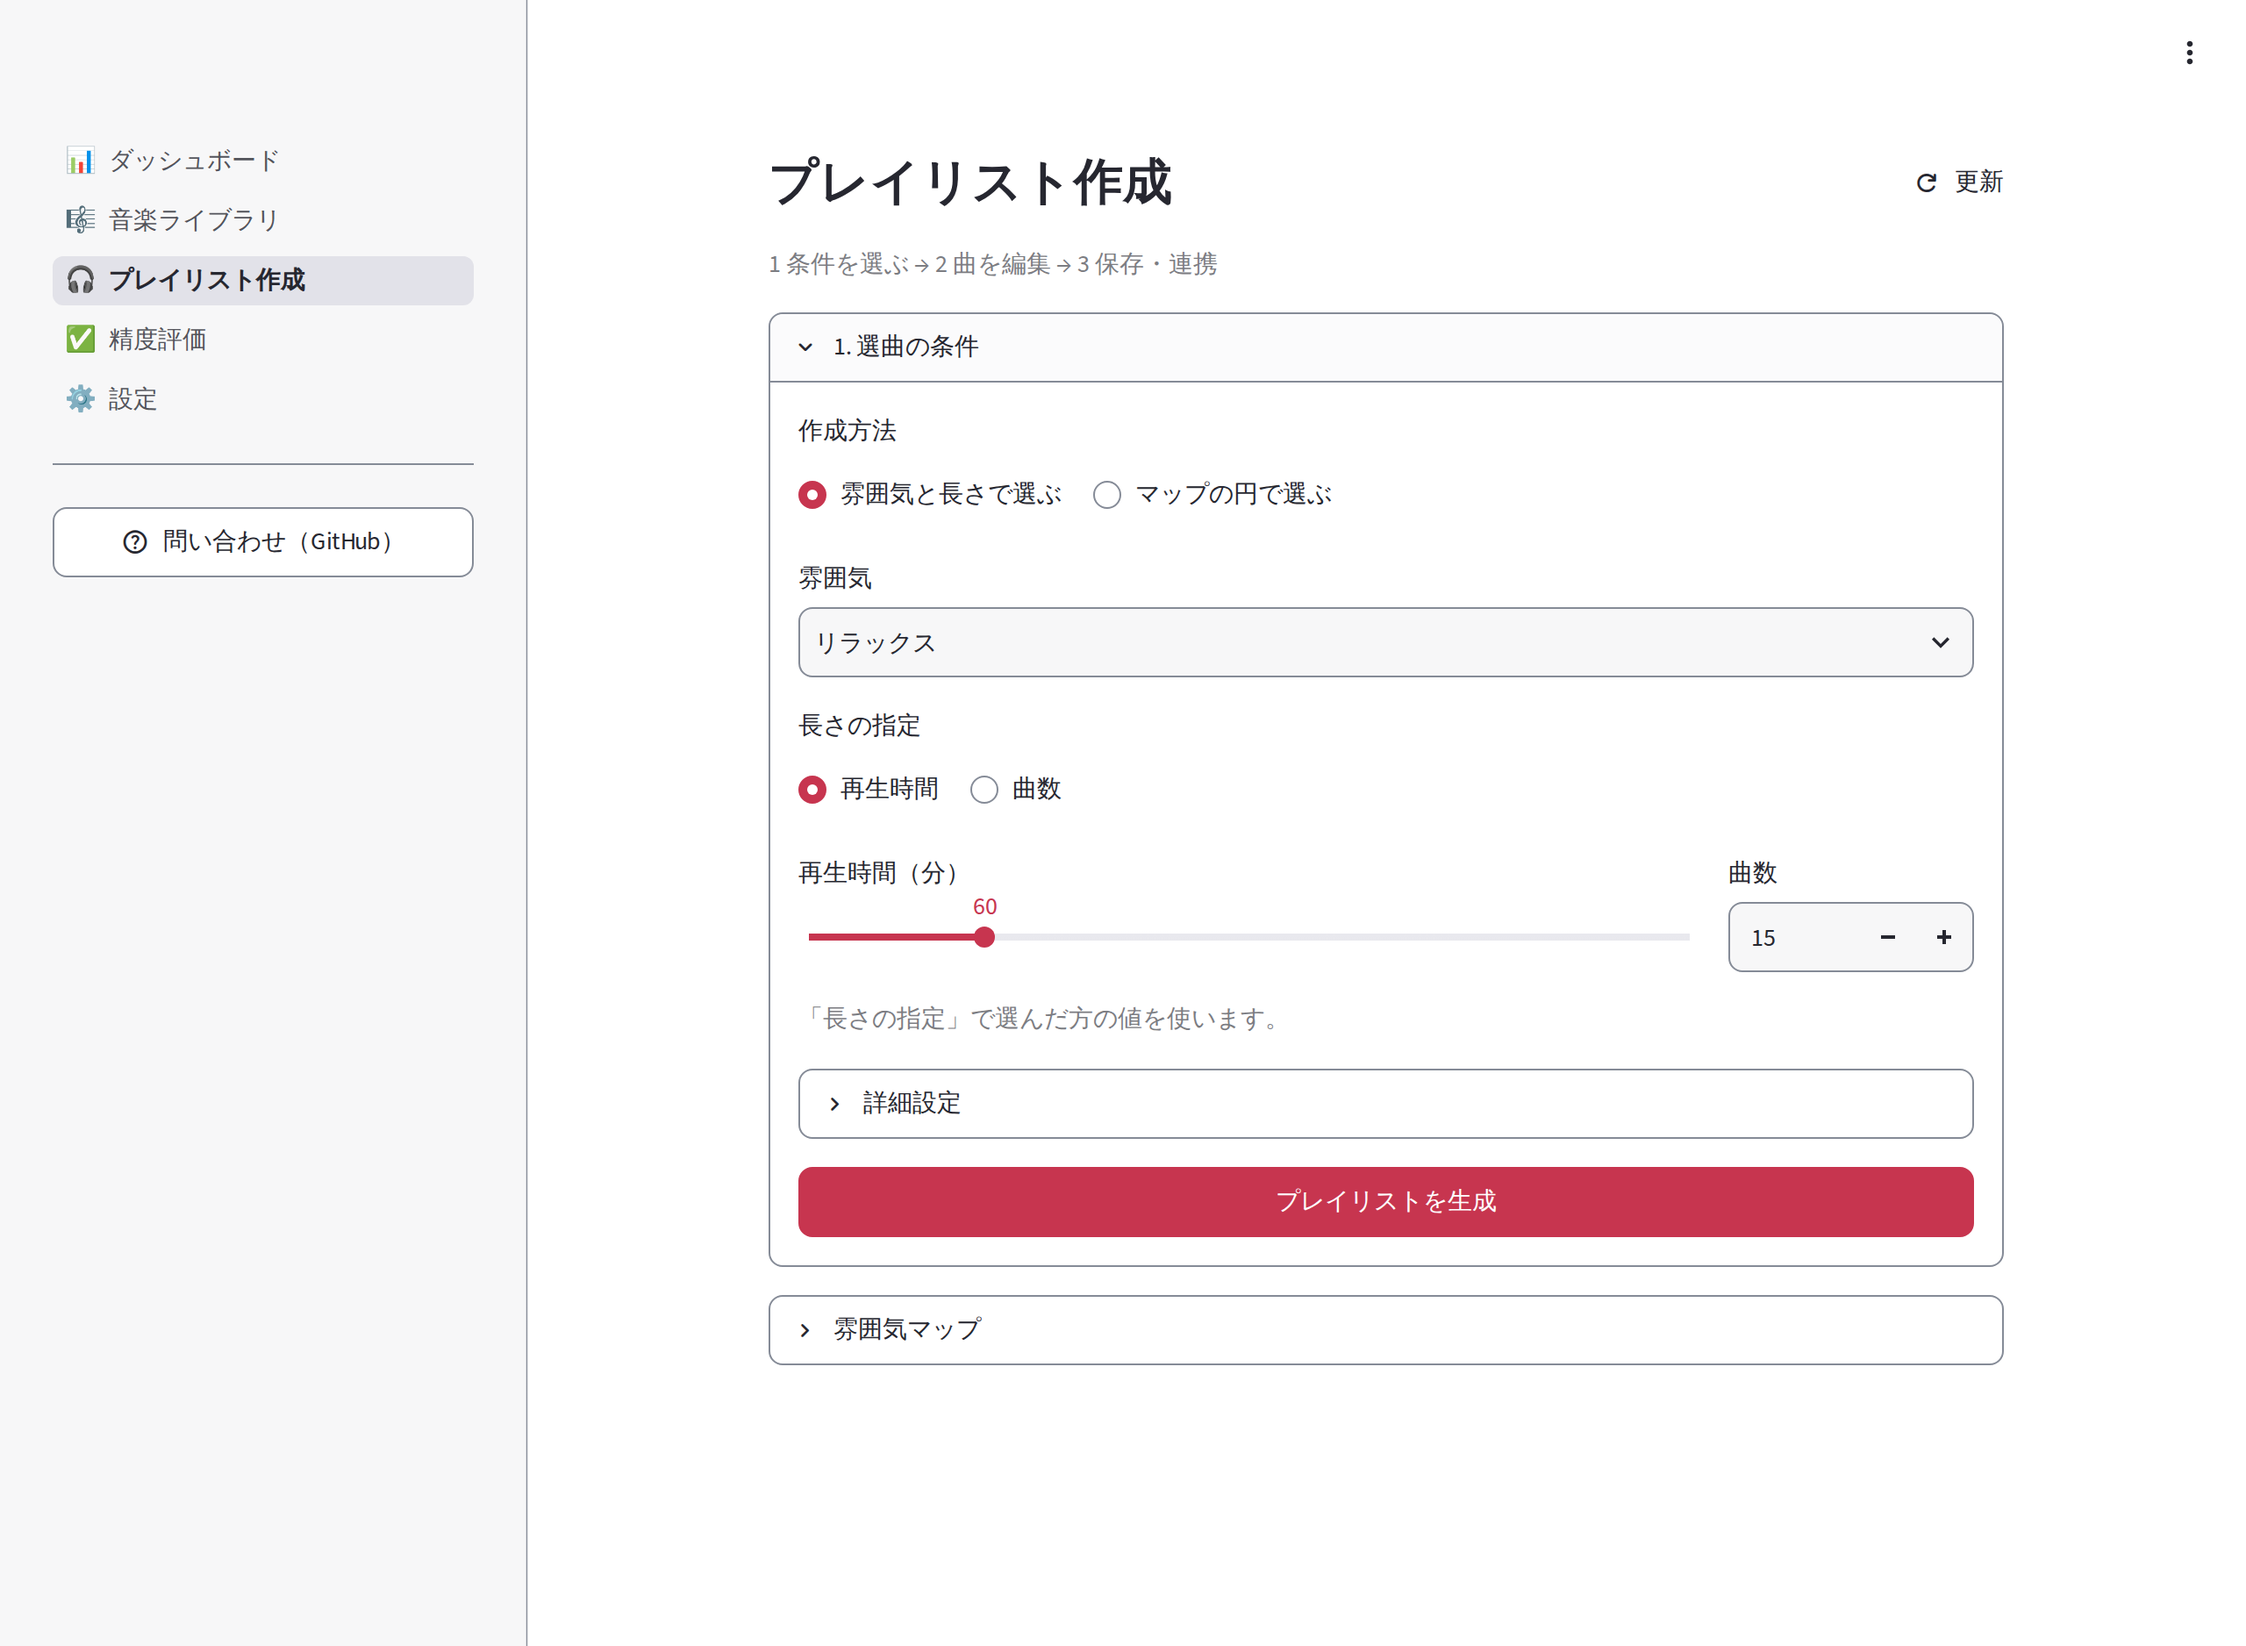
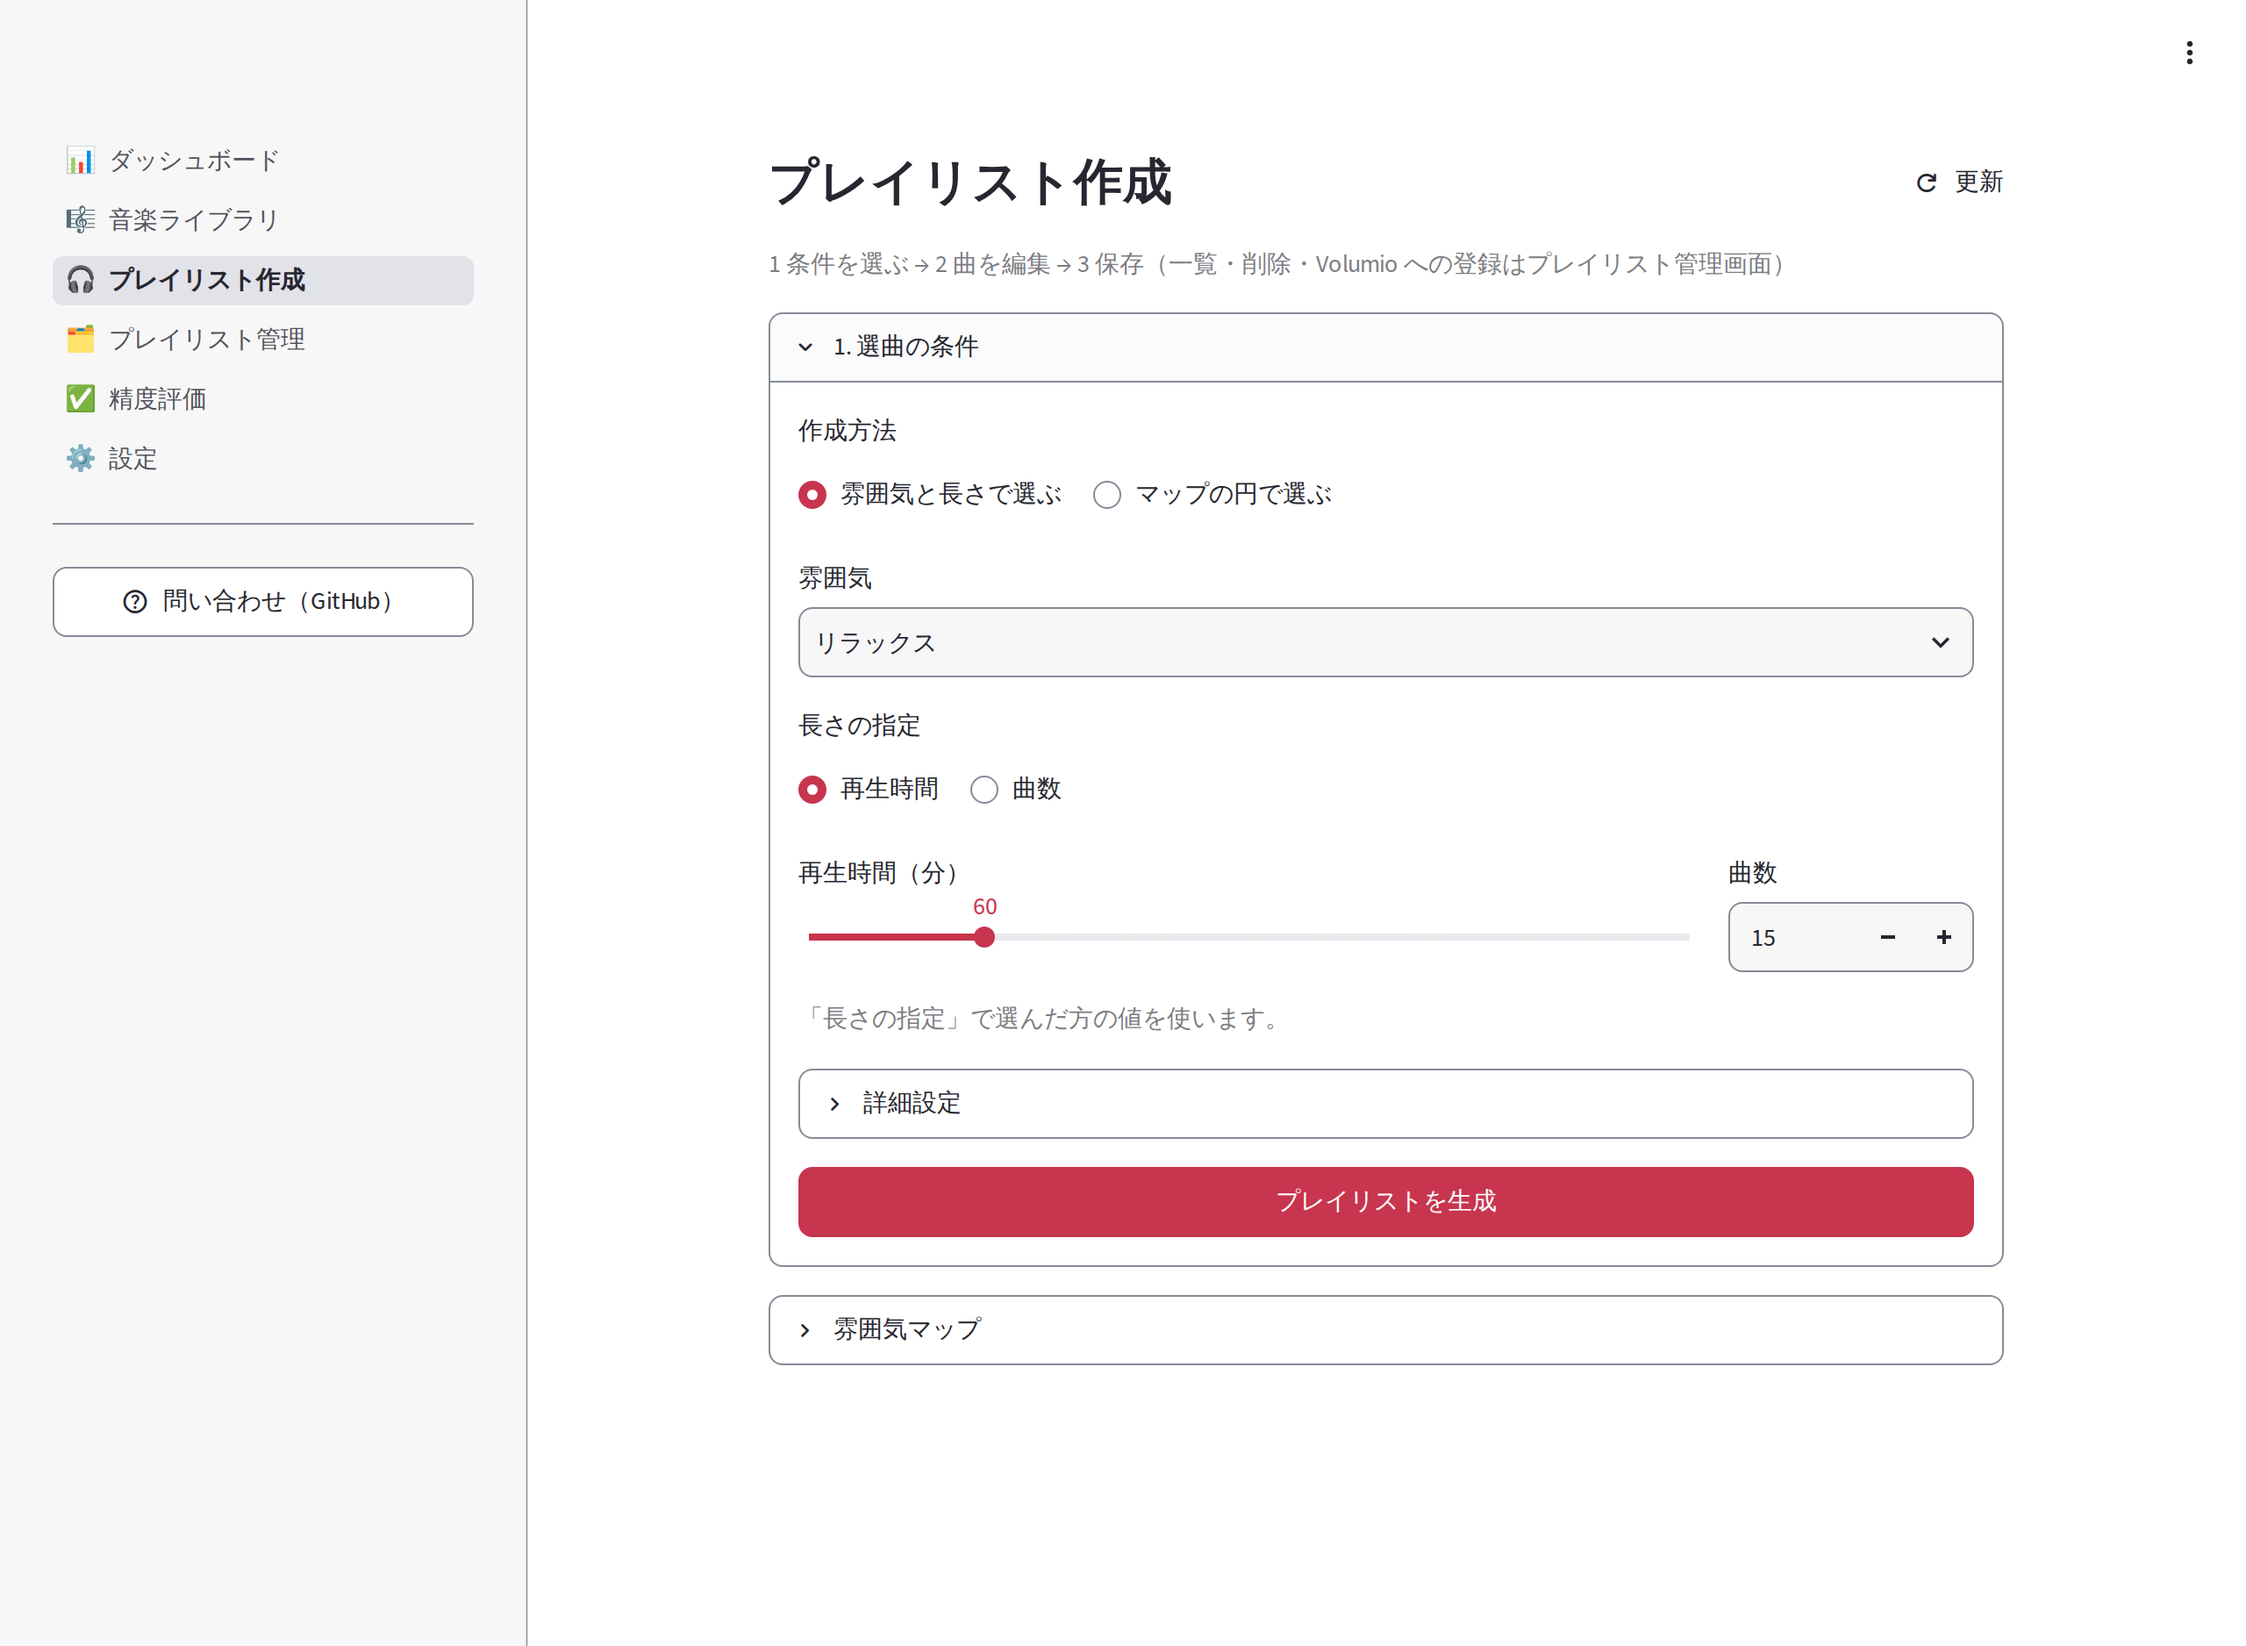
画面キャプチャをプレイリスト管理画面に合わせて更新する
タブ名「3. 保存」への変更に合わせ、管理画面のキャプチャを追加する。
既存の設定画面の確認処理で撮影が止まるため、PC 幅の画像だけを更新している。

diff --git a/tools/capture_screenshots.py b/tools/capture_screenshots.py
@@ -225,14 +225,14 @@ def create_playlist(page: Page) -> None:
     page.get_by_role("button", name="プレイリストを生成").click()
     wait_for_app(page)
     expect(page.get_by_label("雰囲気", exact=True)).not_to_be_visible()
-    page.get_by_role("tab", name="3. 保存・連携").click()
+    page.get_by_role("tab", name="3. 保存").click()
     page.get_by_label("プレイリスト名", exact=True).fill(PLAYLIST_NAME)
     page.get_by_label("プレイリスト名", exact=True).press("Enter")
     wait_for_app(page)
-    expect(page.get_by_role("tab", name="3. 保存・連携")).to_have_attribute("aria-selected", "true")
+    expect(page.get_by_role("tab", name="3. 保存")).to_have_attribute("aria-selected", "true")
     expect(page.get_by_label("プレイリスト名", exact=True)).to_have_value(PLAYLIST_NAME)
     # 入力を確定しただけでは保存しない。ボタンを一度押すと保存できることも確認する。
-    expect(page.get_by_text("登録するプレイリスト", exact=True)).not_to_be_visible()
+    expect(page.get_by_text(f"「{PLAYLIST_NAME}」を保存しました。", exact=False)).not_to_be_visible()
     # 空欄を確定した後に名前を入力し、入力欄からボタンへ直接一度タップしても保存できる。
     page.get_by_label("プレイリスト名", exact=True).fill("")
     page.get_by_label("プレイリスト名", exact=True).press("Enter")
@@ -240,7 +240,7 @@ def create_playlist(page: Page) -> None:
     page.get_by_label("プレイリスト名", exact=True).fill(PLAYLIST_NAME)
     page.get_by_role("button", name="プレイリストを保存").click()
     wait_for_app(page)
-    expect(page.get_by_role("tab", name="3. 保存・連携")).to_have_attribute("aria-selected", "true")
+    expect(page.get_by_role("tab", name="3. 保存")).to_have_attribute("aria-selected", "true")
     expect(page.get_by_text(f"「{PLAYLIST_NAME}」を保存しました。", exact=False)).to_be_visible()
 
 
@@ -250,7 +250,7 @@ def check_playlist_keyboard(page: Page) -> None:
     name.fill("キーボード操作の確認")
     name.press("Tab")
     wait_for_app(page)
-    expect(page.get_by_role("tab", name="3. 保存・連携")).to_have_attribute("aria-selected", "true")
+    expect(page.get_by_role("tab", name="3. 保存")).to_have_attribute("aria-selected", "true")
     expect(name).to_have_value("キーボード操作の確認")
     viewport = page.viewport_size
     if viewport is None:
@@ -260,7 +260,7 @@ def check_playlist_keyboard(page: Page) -> None:
     page.set_viewport_size({"width": viewport["width"], "height": viewport["height"] // 2})
     name.focus()
     page.set_viewport_size(viewport)
-    expect(page.get_by_role("tab", name="3. 保存・連携")).to_have_attribute("aria-selected", "true")
+    expect(page.get_by_role("tab", name="3. 保存")).to_have_attribute("aria-selected", "true")
     expect(name).to_have_value("キーボード操作の確認")
     name.fill(PLAYLIST_NAME)
     name.press("Enter")
@@ -318,9 +318,14 @@ def capture_pages(page: Page, base_url: str, output_dir: Path, suffix: str) -> N
     save_full_page(page, output_dir / f"playlist-save{suffix}.png")
     page.get_by_role("tab", name="2. 曲を編集").click()
     save_full_page(page, output_dir / ("playlist.png" if not suffix else f"playlist-edit{suffix}.png"))
-
     if not suffix:
+        # 作成画面の状態を確認してから、管理画面に移る
         check_navigation_state(page)
+
+    open_page(page, base_url, "manage")
+    expect(page.get_by_text("表の左端で選ぶと", exact=False)).to_be_visible()
+    save_full_page(page, output_dir / f"manage{suffix}.png")
+    if not suffix:
         open_page(page, base_url, "evaluation")
         page.get_by_role("tab", name="集計・CSV").click()
         save_full_page(page, output_dir / "evaluation-metrics.png")
@@ -355,7 +360,7 @@ def check_navigation_state(page: Page) -> None:
     wait_for_app(page)
     selection = page.get_by_test_id("stSelectbox").filter(has=page.get_by_text("編集する曲", exact=True))
     before = selection.inner_text()
-    page.get_by_role("tab", name="3. 保存・連携").click()
+    page.get_by_role("tab", name="3. 保存").click()
     page.get_by_label("プレイリスト名", exact=True).fill("移動後も保持する名前")
     page.get_by_label("プレイリスト名", exact=True).press("Enter")
     wait_for_app(page)
@@ -366,7 +371,7 @@ def check_navigation_state(page: Page) -> None:
     if selection.inner_text() != before:
         raise RuntimeError("playlist changed after navigation")
 
-    page.get_by_role("tab", name="3. 保存・連携").click()
+    page.get_by_role("tab", name="3. 保存").click()
     if page.get_by_label("プレイリスト名", exact=True).input_value() != "移動後も保持する名前":
         raise RuntimeError("playlist name was lost after navigation")
 

diff --git a/docs/SCREENSHOTS.md b/docs/SCREENSHOTS.md
@@ -46,11 +46,17 @@
 
 ![プレイリスト編集](images/playlist.png)
 
-「3. 保存・連携」で名前を付けて保存し、その下でVolumioとの照合・登録を行います。
-実機との読み取り専用の照合と、モックでの登録という既存の範囲は変えていません。
-キャプチャではモックを使い、確認チェックは未選択です。
+「3. 保存」で名前を付けて保存します。保存後は「プレイリスト管理を開く」から管理画面に移れます。
 
 ![プレイリスト保存](images/playlist-save.png)
+
+## プレイリスト管理
+
+保存したプレイリストを表で一覧します。表の左端で 1 件選ぶと曲目とVolumioとの照合・登録欄を表示し、複数選ぶとまとめて削除できます。
+「雰囲気」タブでは、自由記述の雰囲気の作成（Jev）と、作成済みの雰囲気の確認・一括削除を行います。
+実機との読み取り専用の照合と、確認のうえでの登録という既存の範囲は変えていません。
+
+![プレイリスト管理](images/manage.png)
 
 ## ダッシュボード
 
@@ -96,7 +102,8 @@
 | 選曲条件・初期表示範囲 | [画像](images/playlist-mobile.png) | [画像](images/playlist-tablet.png) | [画像](images/playlist-top.png) |
 | 選曲条件・全体 | [画像](images/playlist-conditions-mobile.png) | [画像](images/playlist-conditions-tablet.png) | [画像](images/playlist-conditions.png) |
 | 曲の編集 | [画像](images/playlist-edit-mobile.png) | [画像](images/playlist-edit-tablet.png) | [画像](images/playlist.png) |
-| 保存・連携 | [画像](images/playlist-save-mobile.png) | [画像](images/playlist-save-tablet.png) | [画像](images/playlist-save.png) |
+| 保存 | [画像](images/playlist-save-mobile.png) | [画像](images/playlist-save-tablet.png) | [画像](images/playlist-save.png) |
+| プレイリスト管理 | - | - | [画像](images/manage.png) |
 | 評価入力 | [画像](images/evaluation-mobile.png) | [画像](images/evaluation-tablet.png) | [画像](images/evaluation.png) |
 | 一般設定 | [画像](images/settings-mobile.png) | [画像](images/settings-tablet.png) | [画像](images/settings.png) |
 
